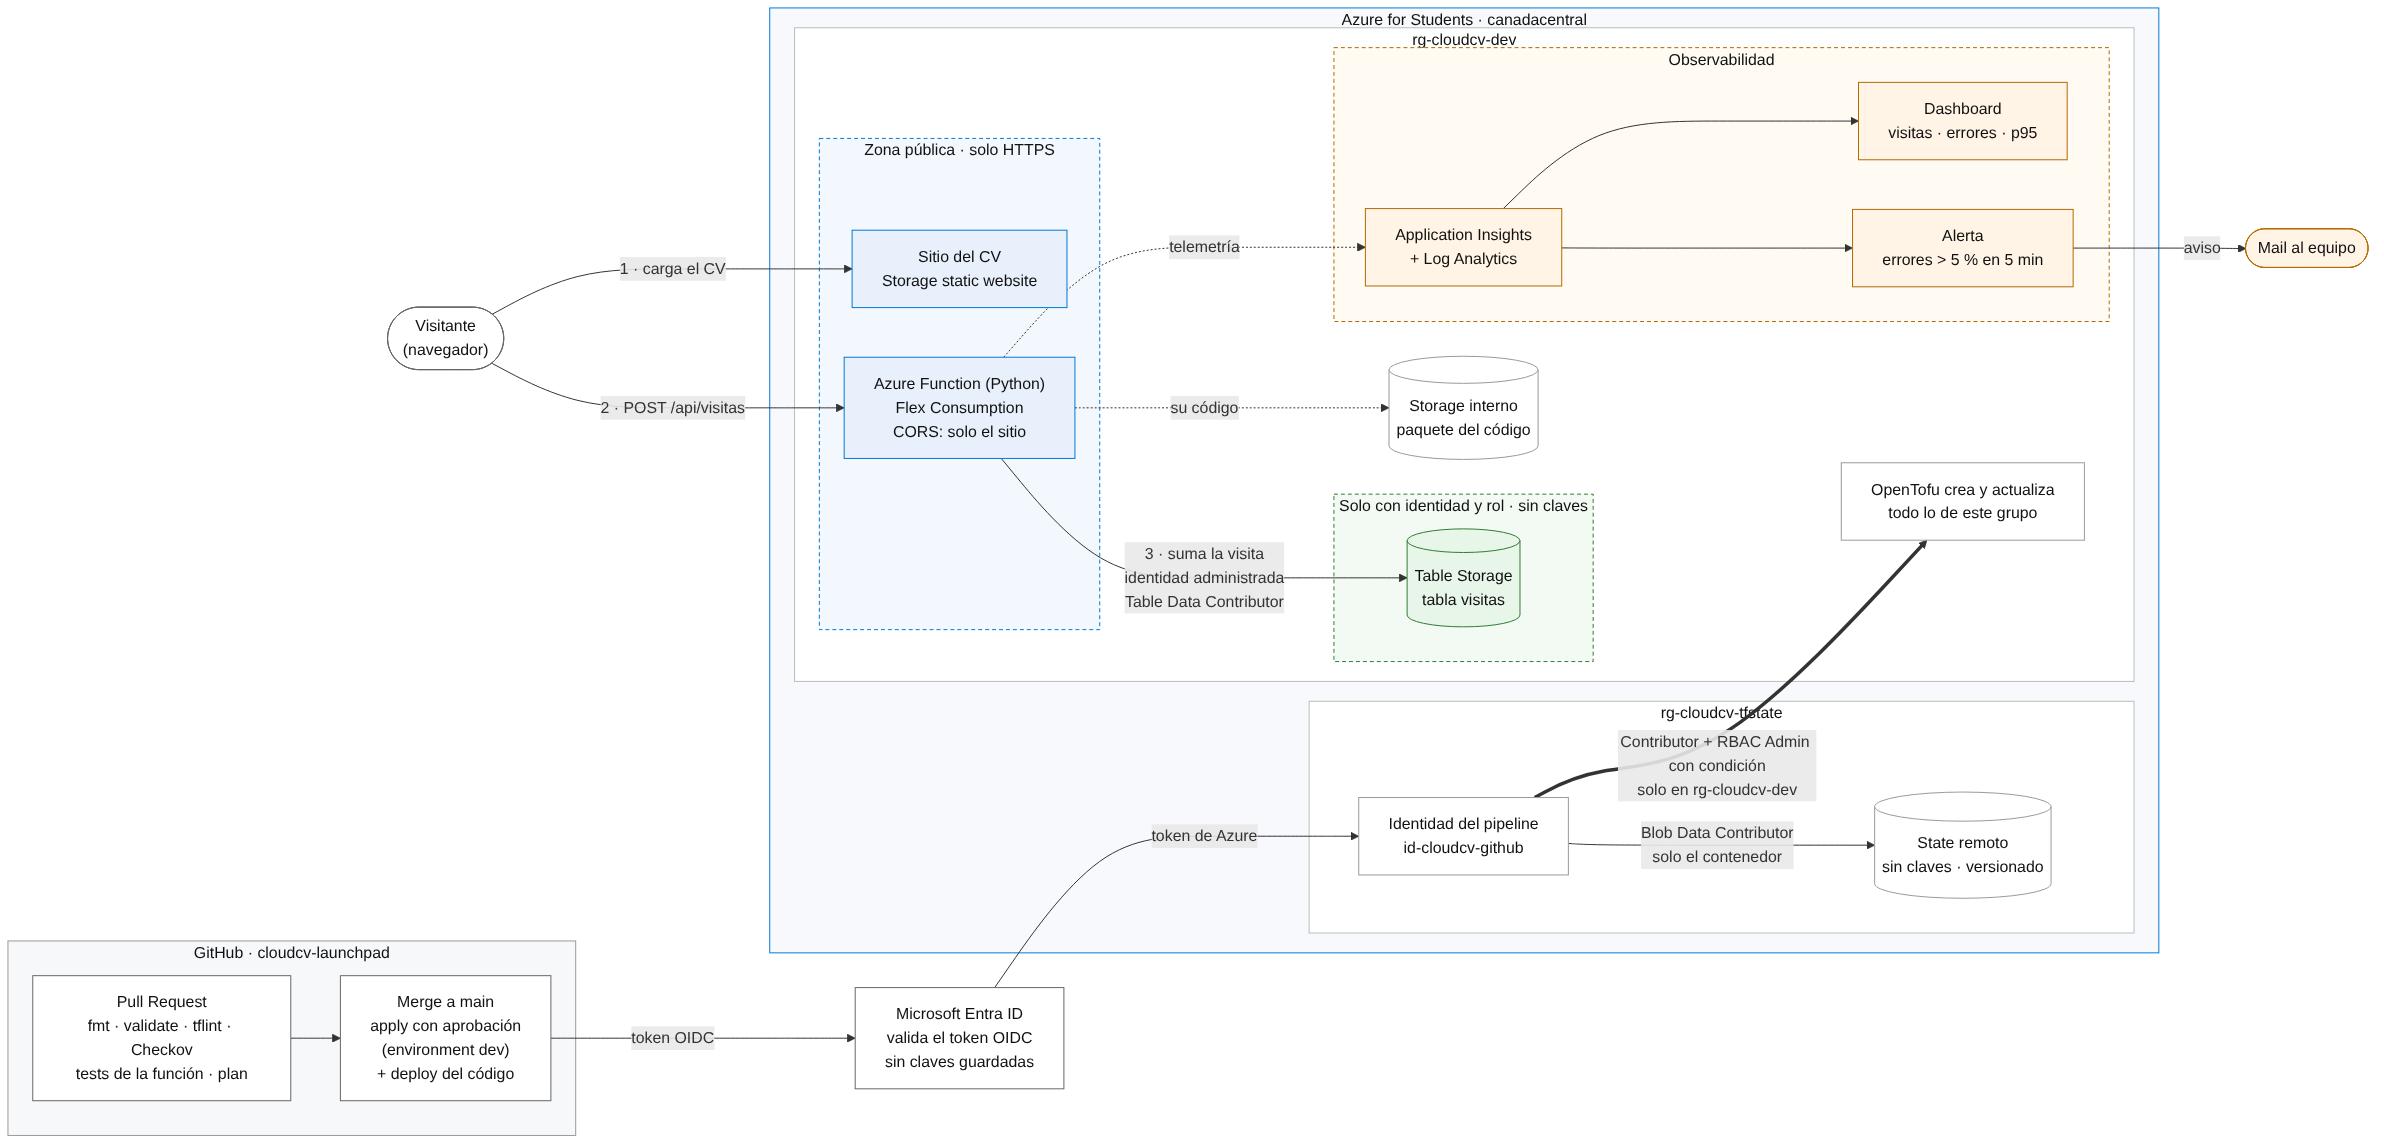
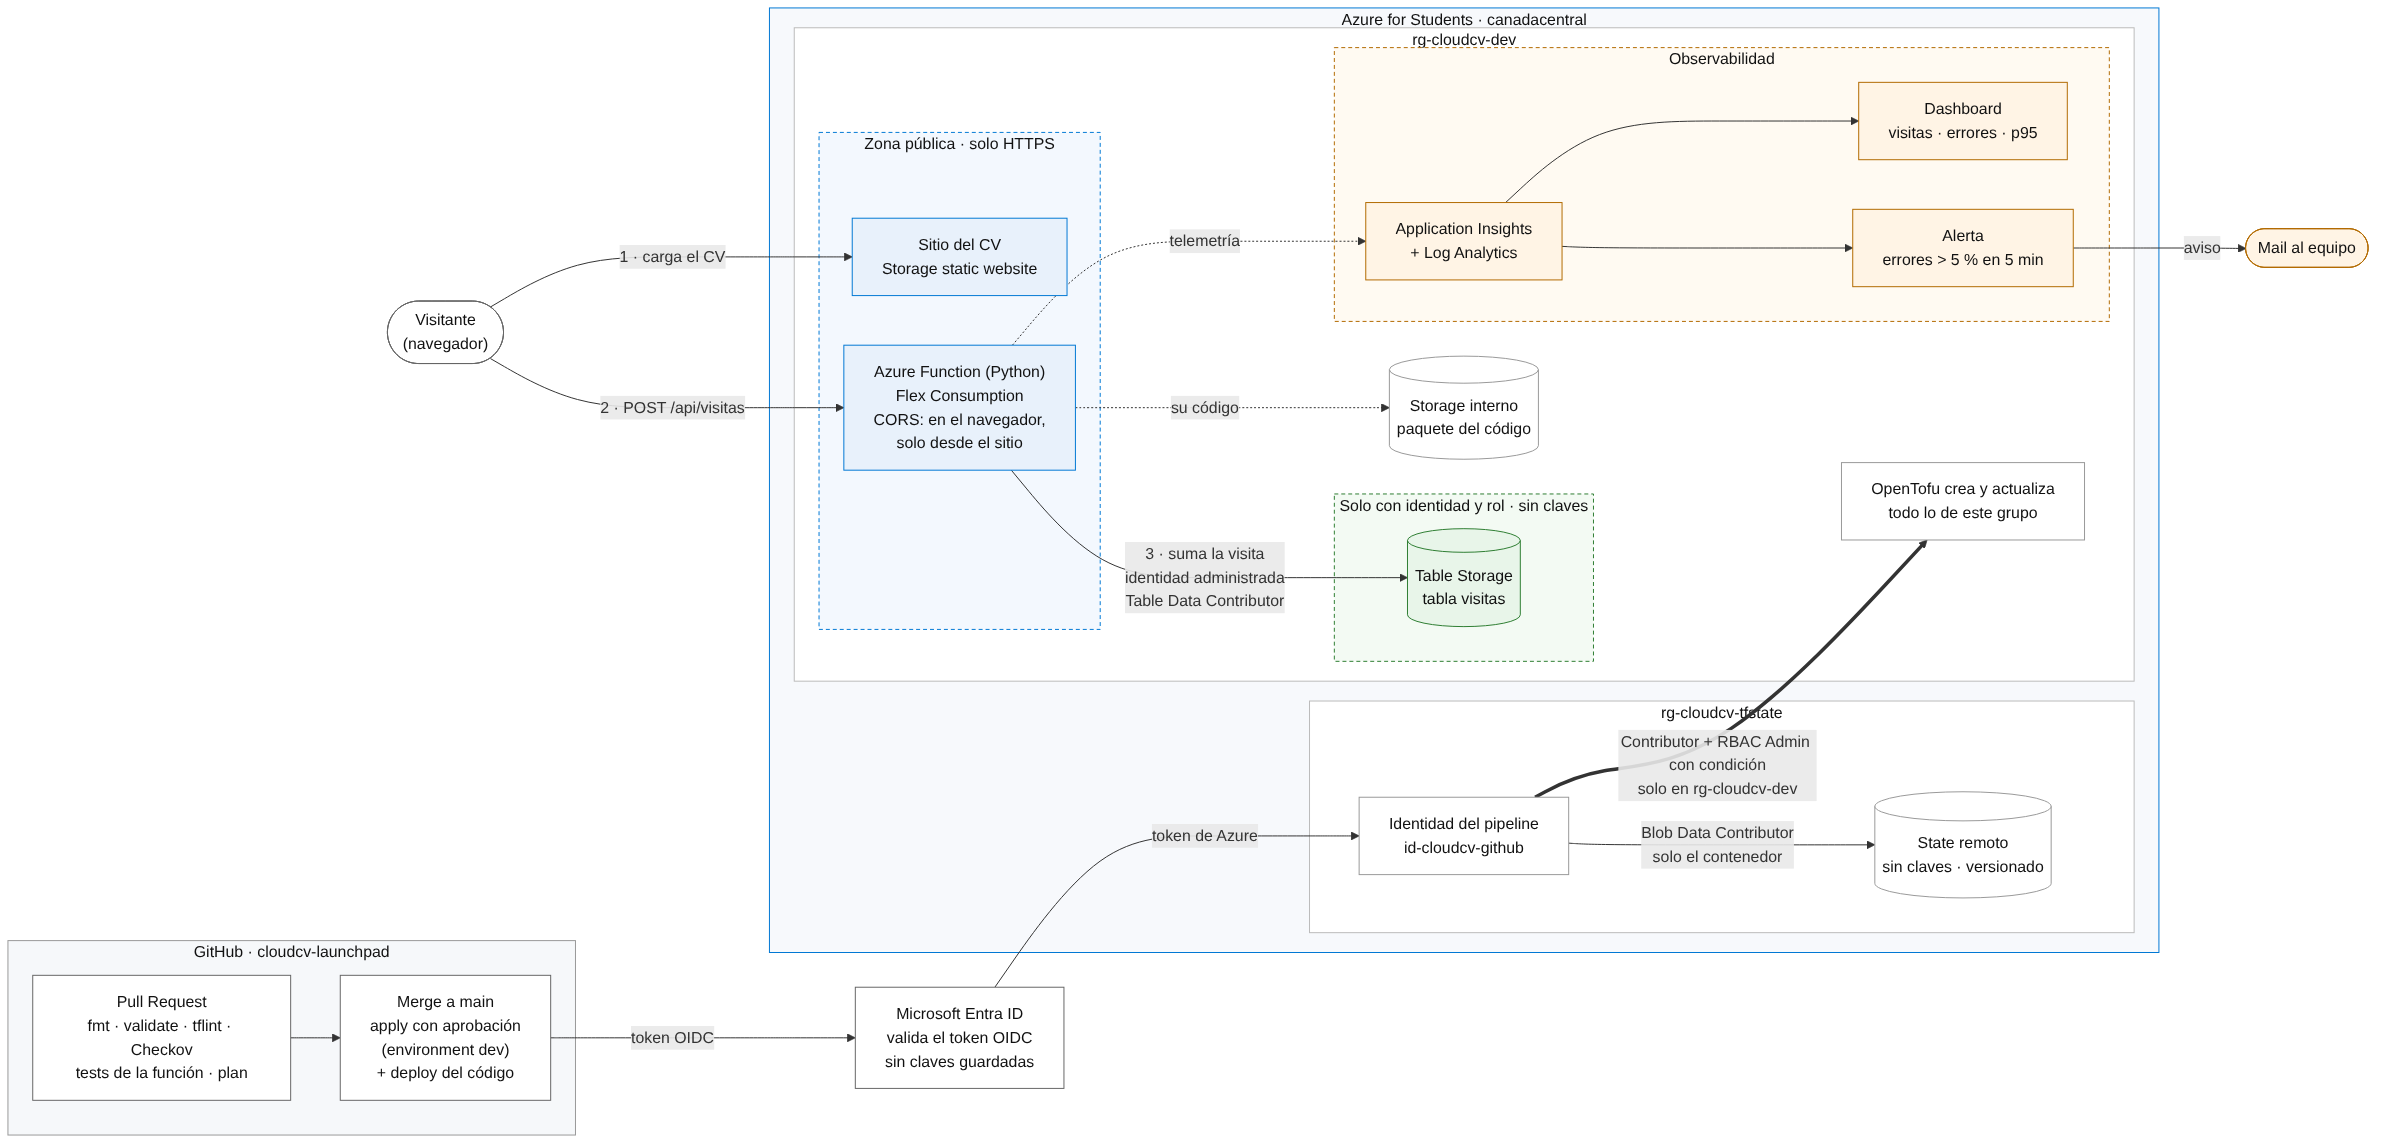
Ajustes de la revisión: required_version, logs a 7 días, sitio sin claves, textos y blog

diff --git a/app/site/index.html b/app/site/index.html
@@ -42,7 +42,7 @@
       <div class="item">
         <h3>CloudCV Launchpad</h3>
         <p class="fecha">2026</p>
-        <p>Este mismo sitio: un CV en Azure con contador de visitas, creado con OpenTofu y desplegado con GitHub Actions. Sin claves guardadas (OIDC e identidades administradas), con dashboard, alerta de errores y un costo de casi cero.</p>
+        <p>Este mismo sitio: un CV en Azure con contador de visitas, creado con OpenTofu y desplegado con GitHub Actions. Sin credenciales en el repositorio (OIDC e identidades administradas), con dashboard, alerta de errores y un costo de casi cero.</p>
       </div>
     </section>
 

diff --git a/docs/blog.md b/docs/blog.md
@@ -1,0 +1,84 @@
+# Un CV en la nube que cuesta casi cero y no tiene contraseñas en el repositorio
+
+*Macarena Piñeiro y Juliana Hernández · Cloud Computing, UCU · noviembre de 2026*
+
+Para el proyecto final de Cloud Computing elegimos CloudCV Launchpad: publicar un CV como página web, con un contador que muestra cuántas veces se visitó. Suena simple, y la aplicación en sí lo es. Lo interesante estuvo en todo lo de alrededor: que se cree solo con código, que no haya contraseñas en el repositorio, que avise si algo se rompe y que cueste lo menos posible.
+
+En este post contamos cómo lo armamos, qué decidimos y en qué nos trabamos.
+
+## Cómo está armado
+
+![Diagrama de arquitectura](arquitectura.png)
+
+Hay dos caminos en el diagrama. Arriba está lo que pasa cuando alguien entra al CV. Abajo, lo que pasa cuando cambiamos el código.
+
+Cuando alguien entra:
+
+1. El navegador carga la página desde una cuenta de Storage de Azure, que la publica como sitio web con HTTPS.
+2. El JavaScript de la página llama a una Azure Function con un `POST /api/visitas`.
+3. La Function suma 1 en una tabla y devuelve el número, que se muestra al pie del CV.
+
+Todo está en Azure, en la región `canadacentral`, y todo se crea con OpenTofu. No hicimos nada a mano en el portal.
+
+## El sitio: más simple de lo que pensábamos
+
+Nuestra primera idea era usar Static Web Apps, que trae CDN y HTTPS incluidos. Pero la suscripción de estudiantes solo nos deja crear recursos en cinco regiones, y Static Web Apps no está disponible en ninguna de ellas. Lo probamos y Azure lo rechazó por la política de la suscripción.
+
+La alternativa fue el *static website* de una cuenta de Storage: subimos el HTML, el CSS y el JS a un contenedor especial (`$web`) y Azure lo publica en una dirección con HTTPS. Para un CV alcanza de sobra y cuesta centavos.
+
+No pusimos CDN porque la de Azure (Front Door) cuesta unos USD 35 por mes, y nuestro presupuesto era de USD 10.
+
+Un detalle que nos gustó: la página necesita saber la dirección de la Function, y esa dirección cambia cada vez que se crea el entorno. En vez de escribirla a mano, OpenTofu genera un archivito `config.js` con la dirección correcta y lo sube junto con el sitio.
+
+## El contador: una tabla sin llave
+
+El contador es una Function en Python, en el plan Flex Consumption. Ese plan escala a cero: si nadie visita el CV, no hay nada encendido y casi no se paga. La contracara es que la primera visita después de un rato tarda alrededor de un segundo, porque la Function tiene que "despertarse". Lo vimos en el dashboard: la latencia más alta siempre era la primera.
+
+El número se guarda en Table Storage. Es una sola fila con un solo número, así que no tenía sentido una base de datos más grande.
+
+Lo que más trabajo nos dio fue la seguridad de la tabla. Una cuenta de Storage normalmente tiene dos claves que dan acceso a todo, como una llave maestra. Nosotras las apagamos: la única forma de entrar es con una identidad de Azure que tenga el permiso justo. La Function tiene su propia identidad (una *identidad administrada*) y el rol *Storage Table Data Contributor*, que le deja leer y escribir filas **solo en la tabla `visitas`**. Si alguien encontrara la dirección de la tabla, no tendría con qué entrar. Lo mismo hicimos con la cuenta del sitio: los archivos se suben con la identidad de quien corre OpenTofu, no con una clave. La única cuenta que todavía tiene clave es la interna de la Function, donde se guarda su código, por un error conocido del provider de Azure.
+
+Apagar las claves nos trajo un problema que no esperábamos. El recurso de OpenTofu que crea tablas (`azurerm_storage_table`), después de crearla, intenta configurarla usando justamente esas claves, y Azure lo rechazaba con un error 403. La solución fue crear la tabla con `azapi`, otro provider de Microsoft que habla directo con la API de Azure y no usa claves.
+
+Otro detalle del código: si dos personas entran al mismo tiempo, las dos podrían leer "41" y guardar "42", y se perdería una visita. Para evitarlo, al guardar le decimos a la tabla "guardá solo si nadie cambió el número desde que lo leí" (usando el *etag* de la fila). Si alguien lo cambió, volvemos a leer y probamos de nuevo. Eso está cubierto en los tests de la función.
+
+## Quién puede llamar a la Function
+
+La Function tiene que ser pública, porque la llama el navegador de cualquier visitante. Pero le pusimos reglas:
+
+- **Solo HTTPS.** Si alguien la llama por HTTP, responde con una redirección a HTTPS.
+- **CORS limitado al sitio.** El navegador solo deja usarla desde la página del CV: si otra página intenta llamarla, el navegador lo bloquea. El CORS no frena a alguien que la llame directo, por ejemplo con `curl`. Pero lo peor que puede hacer es sumar visitas, porque la API no devuelve ningún otro dato.
+
+Con el CORS también tuvimos un problema. La primera vez que creábamos todo desde cero, el provider de Azure fallaba con un error que él mismo describía como un bug: en el momento del plan todavía no sabía la dirección del sitio y se confundía. Lo resolvimos sacando el CORS de la Function y configurándolo en un paso aparte, también con `azapi`. Desde ese cambio, un solo `tofu apply` crea todo.
+
+## Saber si algo se rompe
+
+La Function manda datos a Application Insights cada vez que la llaman: cuánto tardó y si salió bien. Con eso armamos dos cosas:
+
+- **Un dashboard** con las visitas, los errores y la latencia p95 (el 95 % de las visitas tardó menos que ese valor). Usamos el p95 y no el promedio porque una visita muy lenta casi no mueve el promedio, pero en el p95 se nota.
+- **Una alerta** que cada 5 minutos revisa si más del 5 % de las llamadas fallaron, y si es así nos manda un mail.
+
+Para probar la alerta, rompimos la Function a propósito: le cambiamos a mano el nombre de la tabla por uno que no existe. Empezó a responder con error 500, el dashboard mostró el pico y a los pocos minutos la alerta se disparó. Después corrimos `tofu apply`, que detectó el cambio hecho a mano y volvió a dejar el nombre correcto, y la alerta se cerró sola.
+
+Esa prueba nos mostró algo más: el código es la fuente de verdad. Si alguien toca algo en el portal, el próximo `apply` lo deja como dice el código.
+
+## [Juliana] El pipeline: de un Pull Request a Azure sin contraseñas
+
+> *Esta sección la escribe Juliana. Ideas para cubrir:*
+> - *Qué corre en cada Pull Request (fmt, validate, tflint, Checkov, tests de la función y el plan como comentario).*
+> - *Cómo funciona el apply con aprobación (environment `dev`).*
+> - *Cómo entra GitHub Actions a Azure con OIDC, sin guardar ninguna clave.*
+> - *El state remoto: dónde está y por qué no tiene claves.*
+> - *Los permisos de la identidad del pipeline: Contributor solo en `rg-cloudcv-dev` y la condición que limita qué roles puede asignar.*
+
+## Cuánto cuesta
+
+Durante las pruebas, cada vez que levantamos todo lo tuvimos menos de una hora, y el costo estimado fue de menos de USD 0,05 por prueba. Casi todo entra en lo que Azure regala por mes.
+
+Hicimos también una proyección: con un millón de visitas por mes, el proyecto costaría entre USD 15 y 54, según la memoria de la Function. Por eso la bajamos de 2 GB a 512 MB, que para un contador alcanza de sobra. Todos los números y las medidas de ahorro están en el [informe FinOps](finops.md).
+
+## Qué aprendimos
+
+- **Seguro y barato no se contradicen.** Sacar las claves no cuesta nada, y las medidas que más ahorran (escalar a cero, no usar servicios que cobran por hora) también achican lo que puede salir mal.
+- **Los providers tienen bugs.** Dos de nuestros problemas más largos fueron del provider de Azure, no de nuestro código. Leer bien el mensaje de error y buscar el issue en GitHub nos ahorró horas.
+- **Probar destruyendo.** Crear todo, probarlo y destruirlo varias veces nos mostró problemas que no hubiéramos visto creando una sola vez, como el del CORS o un recurso que Azure crea solo y frenaba el destroy.

diff --git a/docs/finops.md b/docs/finops.md
@@ -44,6 +44,8 @@ Para verlo entramos a **Cost Management → Análisis de costos** y filtramos po
 
 ## Cuánto costaría con muchas visitas
 
+*(Pendiente: confirmar estos números en la [calculadora de Azure](https://azure.microsoft.com/pricing/calculator/), región Canada Central, y pegar acá el link de la estimación guardada. Lo que sigue es nuestra cuenta a mano, que usamos para entender de dónde sale cada costo.)*
+
 Para la proyección pensamos en el peor caso: que cada visita sea una llamada aparte y que cada una cobre el mínimo de 1 segundo. En la práctica debería salir más barato, porque una misma instancia puede atender varias visitas a la vez.
 
 | Visitas por mes | Function con 2 GB (como estaba al principio) | Function con 512 MB (como está ahora) | Storage, logs y alerta | Total aproximado |
@@ -65,12 +67,14 @@ Con tantas visitas también habría que subir el tope diario de logs, que hoy es
 - **Trabajamos en una sola región,** `canadacentral`, que además es más barata que Brasil.
 - **Le pusimos un tope a la Function:** como máximo 40 instancias a la vez, para que un pico de visitas no se convierta en un pico de gasto.
 - **Bajamos la memoria de la Function de 2 GB a 512 MB.** Para un contador no hacen falta 2 GB, y como Azure cobra por memoria × tiempo, cada visita cuesta la cuarta parte. Con un millón de visitas por mes, el costo de la Function baja de unos USD 50 a unos USD 11.
-- **Le pusimos un tope a los logs:** 0,1 GB por día y 30 días de guardado. El enunciado pide 7 días, pero 30 es lo mínimo que permite Log Analytics.
+- **Le pusimos un tope a los logs:** 0,1 GB por día. Los datos de la Function (pedidos, errores, trazas) se guardan 7 días, como pide el enunciado. El workspace en sí no acepta menos de 30, así que la retención de 7 días se pone en cada tabla. Ojo: según Microsoft, bajar de 31 días no ahorra plata, porque esos días ya vienen incluidos en el precio. Lo hacemos para cumplir el enunciado y no guardar datos más de lo necesario.
 - **Etiquetamos todos los recursos** con `project`, `team`, `env` y `owner`, para poder ver cuánto gasta el proyecto.
-- **Creamos una alerta de presupuesto** de USD 10, con avisos al 50, 80 y 100 %.
-- **Destruimos todo al terminar cada prueba.** Las capturas están en `docs/evidencias/`.
+- *(Pendiente)* **Alerta de presupuesto** de USD 10, con avisos al 50, 80 y 100 %. La agregamos en `envs/dev` y la marcamos como hecha cuando esté creada.
+- **Destruimos todo al terminar cada prueba.** *(Pendiente: subir las capturas a `docs/evidencias/`.)* El destroy no toca el bootstrap (`rg-cloudcv-tfstate`): el state y la identidad del pipeline quedan, porque hacen falta para volver a crear el entorno. Cuestan centavos por mes.
 
 ### Lo que podríamos mejorar
+
+- **Apagar la clave de la cuenta interna de la Function.** Es la única cuenta que todavía la tiene, por un error conocido del provider. Cuando lo corrijan, se puede apagar como en las otras.
 
 - **Que la alerta revise cada 15 minutos en vez de cada 5.** Saldría más barata, aunque nos enteraríamos de los errores un poco más tarde.
 

diff --git a/docs/arquitectura.md b/docs/arquitectura.md
@@ -7,7 +7,7 @@
 **Lo que hace el visitante (flechas 1 a 3):**
 
 1. El navegador carga el CV desde una cuenta de Storage con *static website*, siempre por HTTPS.
-2. El JavaScript del sitio llama a la Function con un `POST /api/visitas`. La Function solo acepta llamadas que vengan del sitio (CORS) y rechaza las que no son HTTPS.
+2. El JavaScript del sitio llama a la Function con un `POST /api/visitas`. La Function rechaza lo que no sea HTTPS. Además tiene CORS: el navegador solo deja usar la API desde la página del CV, así otra página no puede llamarla en nombre de quien la visita. El CORS no frena a quien llama directo (por ejemplo, con `curl`); lo peor que puede hacer es sumar visitas, porque la API no expone ningún otro dato.
 3. La Function suma la visita en la tabla `visitas`. Entra con su **identidad administrada** y el rol *Storage Table Data Contributor*, que vale **solo para esa tabla**. La cuenta de datos no tiene claves.
 
 **Lo que hace el pipeline (abajo):**
@@ -21,10 +21,14 @@
 
 | Zona (color) | Qué hay | Cómo se protege |
 | --- | --- | --- |
-| Pública (azul) | Sitio del CV y Function | Solo HTTPS; la Function solo acepta llamadas del sitio |
+| Pública (azul) | Sitio del CV y Function | Solo HTTPS; en el navegador, la API solo se puede usar desde el sitio (CORS) |
 | Privada (verde) | Tabla del contador | Sin claves: solo entra la identidad de la Function con su rol |
 | Observabilidad (naranja) | Logs, dashboard y alerta | Logs con tope diario y 30 días de guardado |
 | State (`rg-cloudcv-tfstate`) | State remoto e identidad del pipeline | Sin claves, versionado y borrado suave |
+
+## Qué queda después de un destroy
+
+El destroy de `envs/dev` borra todo lo de `rg-cloudcv-dev`. Lo del bootstrap (`rg-cloudcv-tfstate`) **no se destruye**: el state remoto y la identidad del pipeline tienen que seguir existiendo para poder volver a crear el entorno. Su costo es de centavos por mes (una cuenta de Storage con un archivo chico). Tampoco se borra el resource group `rg-cloudcv-dev`, que lo crea el bootstrap; queda vacío, salvo un *action group* que Azure crea solo junto con Application Insights y que no tiene costo.
 
 ## Código del diagrama
 
@@ -52,7 +56,7 @@ flowchart LR
 
             subgraph publico["Zona pública · solo HTTPS"]
                 sitio["Sitio del CV<br/>Storage static website"]
-                func["Azure Function (Python)<br/>Flex Consumption<br/>CORS: solo el sitio"]
+                func["Azure Function (Python)<br/>Flex Consumption<br/>CORS: en el navegador,<br/>solo desde el sitio"]
             end
 
             subgraph privado["Solo con identidad y rol · sin claves"]
